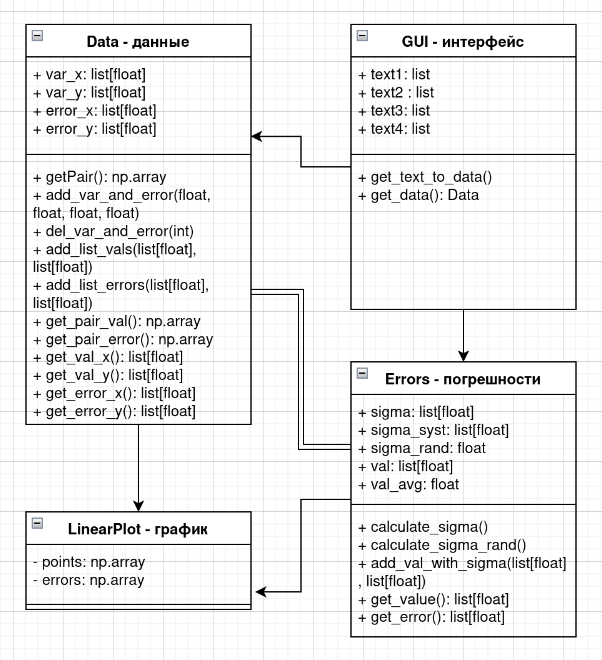
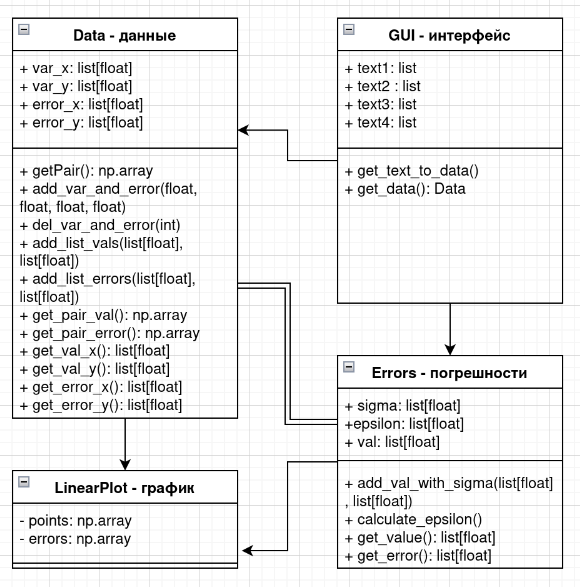
fix

Changed region(s): [[0.0, 0.0, 1.0, 0.9813]]

diff --git a/scr/data.py b/scr/data.py
@@ -1,5 +1,4 @@
 import numpy as np
-from math import sqrt
 
 class Data:
     """
@@ -96,27 +95,15 @@ class Errors:
     """
     Класс Errors используется для расчета общих погрешностей измерений, включая системные и случайные погрешности.
 
-    Атрибуты:
-    ----------
     sigma : list[float]
         Список суммарных погрешностей, вычисленных для каждого значения.
-    sigma_syst : list[float]
-        Список системных погрешностей.
-    sigma_rand : float
-        Случайная погрешность, рассчитанная для значений.
+    epsilon : list[float]
+        Список абсолютных погрешностей, выраженных как доля от значений.
     val : list[float]
         Список значений, для которых рассчитываются погрешности.
-    val_avg : float
-        Среднее значение val, рассчитанное для расчета случайной погрешности.
 
     Методы:
     ----------
-    calculate_sigma() -> None:
-        Вычисляет суммарную погрешность для каждого значения, комбинируя системную и случайную погрешности.
-    calculate_sigma_rand() -> None:
-        Вычисляет случайную погрешность на основе среднего квадратичного отклонения значений.
-    add_val_with_sigma(value: list[float], sigma_syst: list[float]) -> None:
-        Устанавливает значения и соответствующие системные погрешности.
     get_value() -> list[float]:
         Возвращает список значений.
     get_error() -> list[float]:
@@ -124,50 +111,45 @@ class Errors:
     """
 
     sigma: list[float]
-    sigma_syst: list[float]
-    sigma_rand: float
-    sigma: list[float]
+    epsilon: list[float]
     val: list[float]
-    val_avg: float
 
     def __init__(self):
         self.sigma = []
+        self.val = []
 
-    def calculate_sigma(self) -> None:
+    def add_val_with_sigma(self, value, sigma) -> None:
         """
-        Вычисляет общую погрешность для каждого значения, используя формулу:
-        sigma = sqrt(sigma_rand^2 + sigma_syst^2).
-        """
-        self.calculate_sigma_rand()
-        for index in range(len(self.sigma_syst)):
-            self.sigma.append(sqrt(self.sigma_rand ** 2 + self.sigma_syst[index] ** 2))
-
-    def calculate_sigma_rand(self) -> None:
-        """
-        Вычисляет случайную погрешность на основе среднеквадратичного отклонения значений от среднего.
-        """
-        self.val_avg = 0
-        self.sigma_rand = 0
-        for elem in self.val:
-            self.val_avg += elem
-        self.val_avg /= len(self.val)
-        for elem in self.val:
-            self.sigma_rand += (elem - self.val_avg) ** 2
-        self.sigma_rand = sqrt(self.sigma_rand) / len(self.val)
-
-    def add_val_with_sigma(self, value, sigma_syst) -> None:
-        """
-        Устанавливает значения и их системные погрешности.
+        Устанавливает значения и их погрешности.
 
         Parameters:
             value (list[float]): Список значений.
-            sigma_syst (list[float]): Список системных погрешностей.
+            sigma (list[float]): Список погрешностей.
         """
         self.val = value
-        self.sigma_syst = sigma_syst
+        self.sigma = sigma
+
+    def calculate_epsilon(self) -> None:
+        """
+        Рассчитывает абсолютные погрешности (epsilon) как долю от значений.
+
+        Если списки val и sigma имеют разные размеры, выводит сообщение об ошибке.
+        """
+        if len(self.val) != len(self.sigma):
+            print("Error. Different array sizes")
+            return
+        self.epsilon = []
+        for index in range(len(self.val)):
+            self.epsilon.append(self.sigma[index] / self.val[index])
 
     def get_value(self) -> list[float]:
+        """
+        Возвращает список значений, для которых были рассчитаны погрешности.
+        """
         return self.val
 
     def get_error(self) -> list[float]:
+        """
+        Возвращает список суммарных погрешностей.
+        """
         return self.sigma

diff --git a/scr/gui.py b/scr/gui.py
@@ -96,7 +96,6 @@ class Gui:
             Returns:
                 Data: Объект с введенными значениями x, y и их погрешностями.
         """
-
         data = Data()
         data.add_list_vals(self.text1, self.text2) # Добавляем значения x и y
         data.add_list_errors(self.text3, self.text4) # Добавляем погрешности x и y

diff --git a/main.py b/main.py
@@ -16,8 +16,7 @@ errors_x = Errors()
 errors_y = Errors()
 errors_x.add_val_with_sigma(data.get_val_x(), data.get_error_x())
 errors_y.add_val_with_sigma(data.get_val_y(), data.get_error_y())
-errors_x.calculate_sigma()
-errors_y.calculate_sigma()
+
 data.add_list_errors(errors_x.get_error(), errors_y.get_error())
 
 # Строим график
